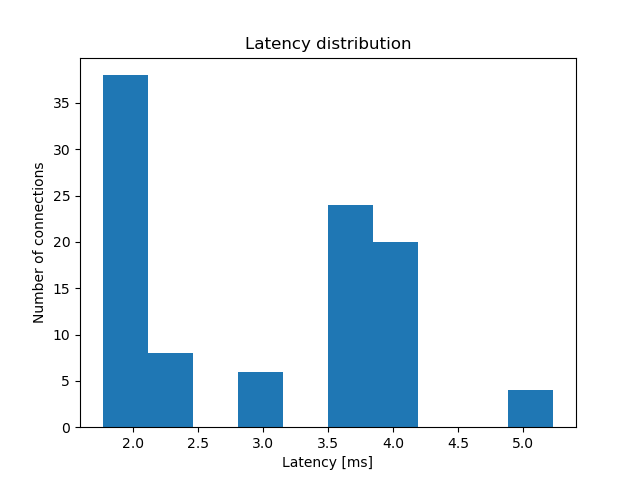
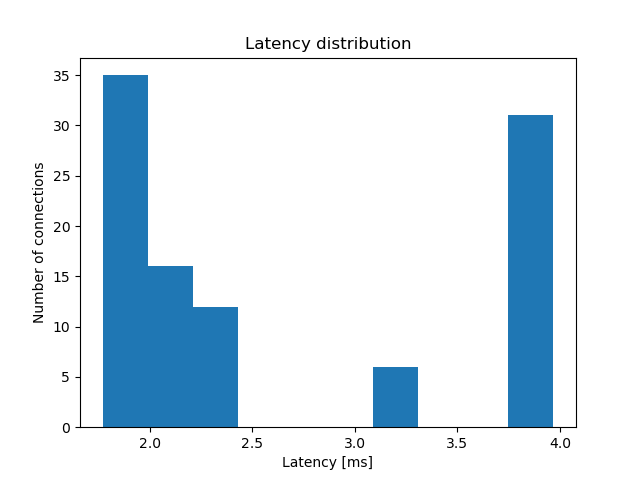
Update Lab05 output

diff --git a/Lab05/tasks/main.py b/Lab05/tasks/main.py
@@ -6,6 +6,7 @@ import pandas as pd
 import numpy as np
 import matplotlib.pyplot as plt
 import random as rand
+import copy
 
 if __name__ == '__main__':
 
@@ -45,6 +46,7 @@ if __name__ == '__main__':
 
     # Saving network dataframe without occupied channel into csv file
     # df.to_csv(r'../results/network_df.csv', index=False)
+    # df.to_csv(r'../results/network_df.csv', index=False)
 
     plt.figure()
     network.draw()
@@ -65,12 +67,13 @@ if __name__ == '__main__':
             if input_rand != output_rand:
                 break
         connections.append(Connection(input_rand, output_rand, 1e-3))
+    connections_for_latency = copy.deepcopy(connections)
 
     #print('Stream with label=snr')
     network.stream(connections, 'snr')
 
-    print('Printing route_space\n\n')
-    print(network.route_space)
+    #print('Printing route_space\n\n')
+    #print(network.route_space)
 
     # plot the distribution of all the snrs
     snr_connections = [c.snr for c in connections]
@@ -91,18 +94,15 @@ if __name__ == '__main__':
     network_latency.weighted_path = df
     network_latency.update_routing_space()
 
-    print('Stream with label=snr')
-    network_latency.stream(connections, 'snr')
     # Stream with label='latency'
-    network.stream(connections)
-
+    network_latency.stream(connections_for_latency)
     '''for i in range(0, 100):
         y = json.dumps(connections[i].__dict__)
         # print(y)
     '''
 
     # plot the distribution of all the latencies
-    latency_connections = [c.latency*1e3 for c in connections]
+    latency_connections = [c.latency*1e3 for c in connections_for_latency]
     plt.figure()
     plt.hist(latency_connections, label='Latency distribution')
     plt.title('Latency distribution')
